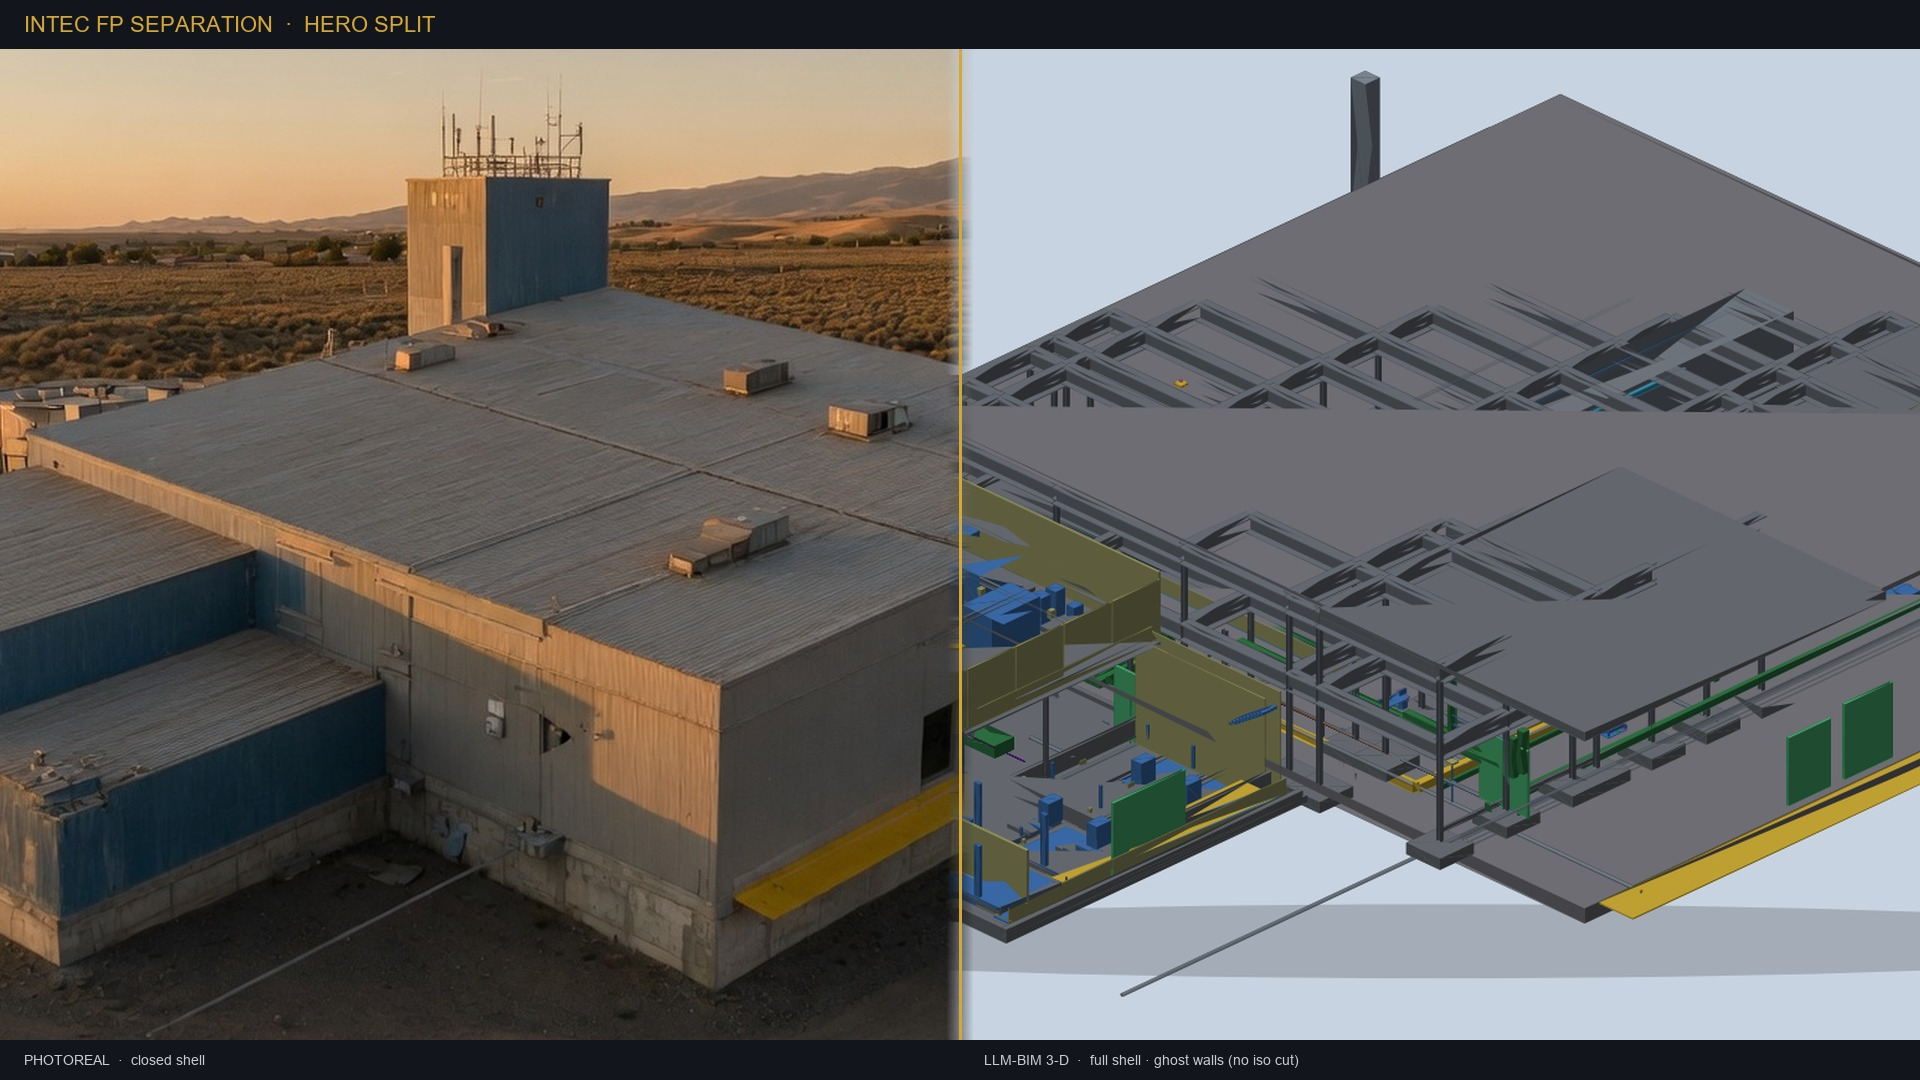
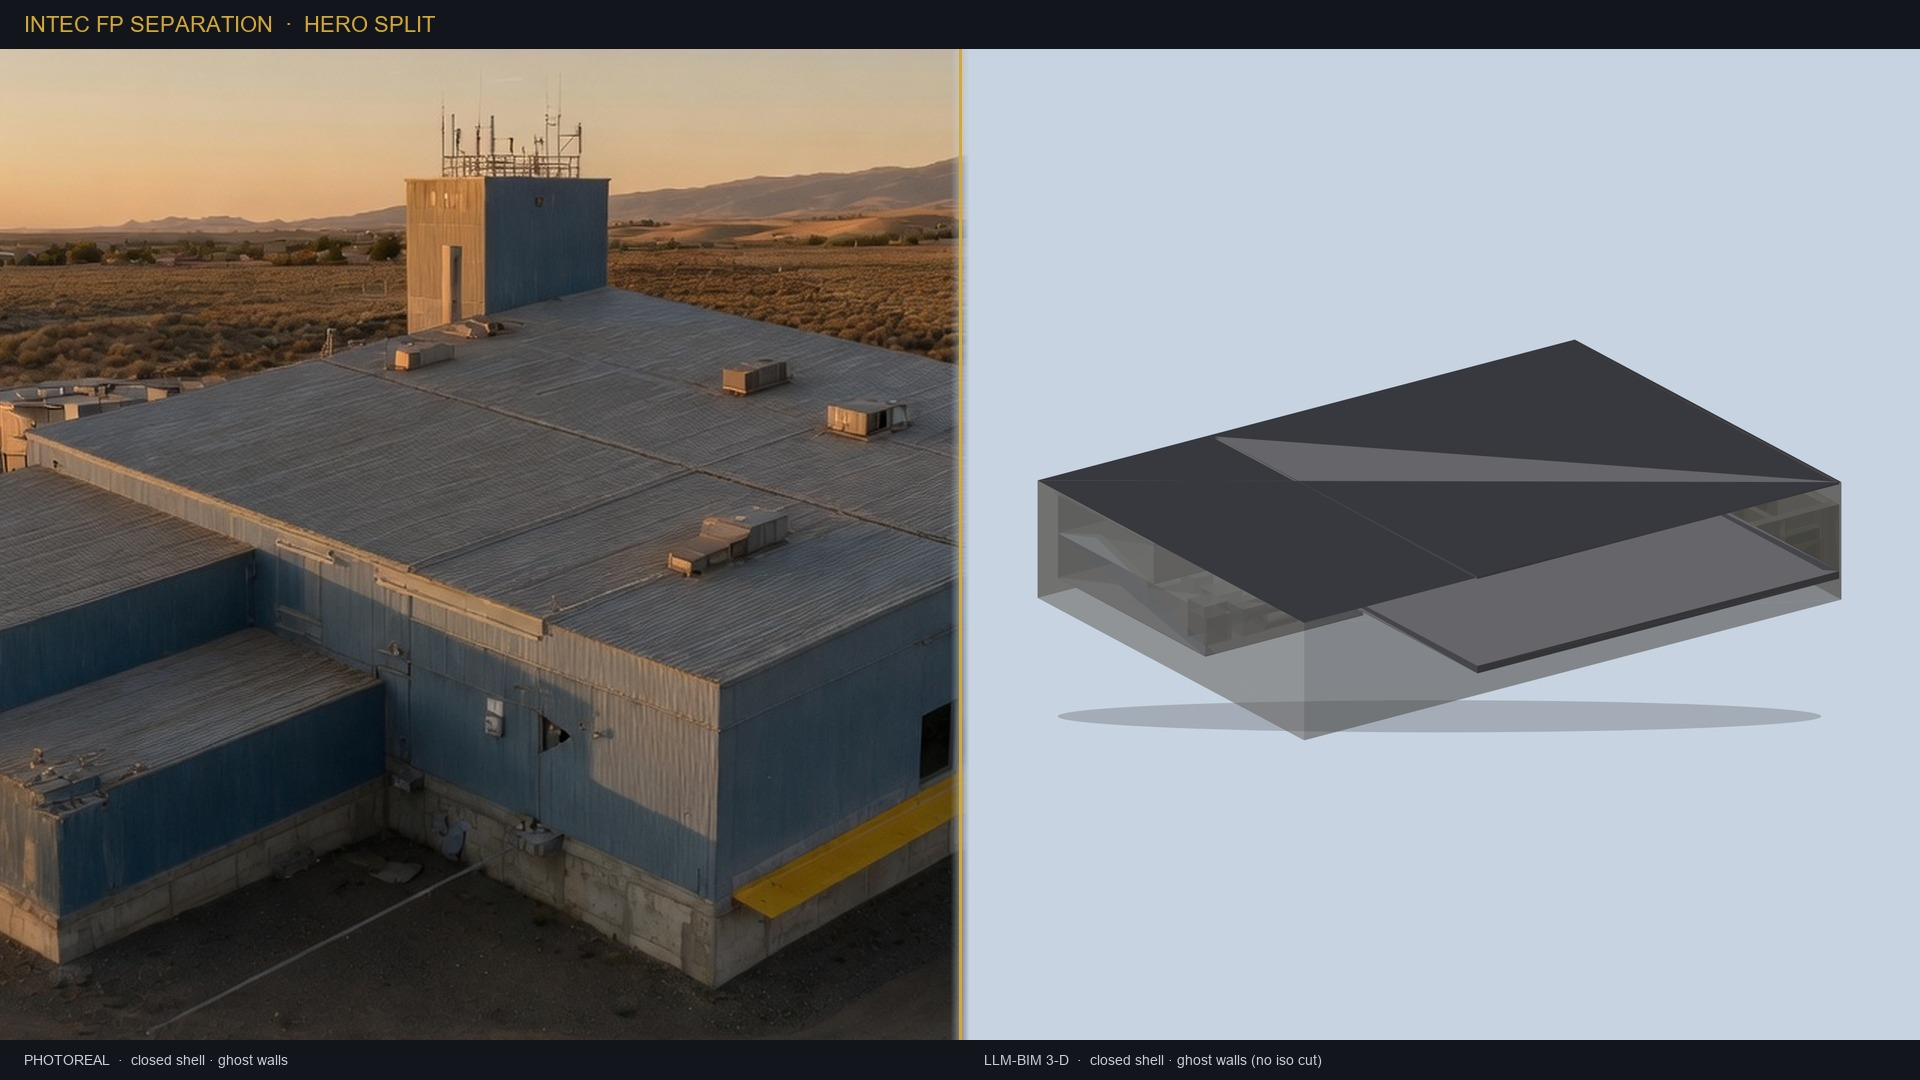
render_hero: closed envelope product stills (no exposed steel / no iso-in)
Primary mesh product views inject solid roof deck + perimeter walls, drop
interior MEP, light wall ghost only, lower exterior elev. Hero library
stills restaged to match closed shell.

diff --git a/packages/geometry/llmbim_geometry/render_hero.py b/packages/geometry/llmbim_geometry/render_hero.py
@@ -79,23 +79,30 @@ def load_gltf_triangles(gltf_path: str | Path) -> tuple[list[_Tri], str]:
     return _gltf_triangles(gltf), name
 
 
-# Vertical enclosure ghosted so structure/MEP reads through (roof stays solid
-# so primary stills are full-shell, not cutaway iso).
-# equip_shell = facility massing envelopes (often mis-tagged as cyan equipment);
-# ghost them as walls so they don't read as blue iso cut planes.
+# Vertical enclosure lightly ghosted (not a cutaway into the hall).
+# equip_shell stays SOLID — it is exterior massing; ghosting it opens the
+# annex like an iso section.
 _GHOST_WALL_KEYS = frozenset({
     "wall", "wall_structure", "wall_insulation", "wall_finish", "wall_membrane",
     "door", "window", "glass", "curtain", "cladding",
+    # massing shells: light ghost + neutral color (not cyan cut planes)
     "equip_shell",
 })
+_GHOST_NEUTRAL_KEYS = frozenset({"equip_shell"})
 # Optional light shell ghost (off by default when ghost_walls=True — roof solid)
 _GHOST_SHELL_KEYS = frozenset({
     "slab", "roof", "concrete", "floor",
 })
-# When ghosting, recolor these keys to neutral wall so cyan massing doesn't
-# look like section-cut hatching.
-_GHOST_NEUTRAL_KEYS = frozenset({"equip_shell"})
-_GHOST_NEUTRAL_RGB = (0.72, 0.74, 0.76)
+_GHOST_NEUTRAL_RGB = (0.70, 0.72, 0.74)
+
+# Interior MEP / process volume dropped on exterior product stills so the
+# camera does not angle into the building (hero/3-D match).
+_INTERIOR_DROP_KEYS = frozenset({
+    "pipe_process", "pipe_copper", "pipe_fire", "pipe_pvc", "conduit",
+    "cable_tray", "duct", "equipment", "equip_port", "equip_sensor",
+    "equip_pedestal", "equip_yoke", "equip_chiller", "equip_gas",
+    "equip_cartridge", "equip_vacuum", "equip_controls",
+})
 
 
 def render_mesh_png(
@@ -239,6 +246,105 @@ def _filter_open_process(tris: list[_Tri]) -> list[_Tri]:
     return keep or tris
 
 
+def _shell_bounds(tris: list[_Tri]) -> tuple[float, float, float, float, float, float]:
+    """Return (x0,x1,y0,y1,z0,z1) of enclosure + frame footprint."""
+    shell_keys = {
+        "wall", "wall_structure", "wall_insulation", "wall_finish",
+        "slab", "roof", "column", "beam", "door", "window", "equip_shell",
+    }
+    pts: list[_Vec3] = []
+    for v0, v1, v2, key in tris:
+        k = (key or "").lower()
+        if k in shell_keys or k.startswith("wall"):
+            pts.extend((v0, v1, v2))
+    if len(pts) < 3:
+        pts = [v for t in tris for v in t[:3]]
+    xs = [p[0] for p in pts]
+    ys = [p[1] for p in pts]
+    zs = [p[2] for p in pts]
+    return min(xs), max(xs), min(ys), max(ys), min(zs), max(zs)
+
+
+def _quad(a: _Vec3, b: _Vec3, c: _Vec3, d: _Vec3, key: str) -> list[_Tri]:
+    return [(a, b, c, key), (a, c, d, key)]
+
+
+def _inject_closed_envelope(tris: list[_Tri]) -> list[_Tri]:
+    """Solid roof deck + perimeter walls so product stills are closed exterior.
+
+    Pack glTF often lacks continuous roof/facade faces — beams read as open
+    steel and isos look into the hall. Cap + four wall planes seal the shell;
+    walls use material ``wall`` (lightly ghosted); roof stays solid.
+    """
+    if not tris:
+        return tris
+    x0, x1, y0, y1, z0, z1 = _shell_bounds(tris)
+    beam_ys = [v[1] for t in tris if t[3] == "beam" for v in t[:3]]
+    wall_ys = [v[1] for t in tris if (t[3] or "").startswith("wall") for v in t[:3]]
+    y_roof = y1
+    if beam_ys:
+        y_roof = max(max(beam_ys) + 0.12, y_roof * 0.99)
+    if wall_ys:
+        y_roof = max(y_roof, max(wall_ys))
+    y_slab = min(0.0, y0)
+    pad = 0.20
+    x0, x1 = x0 - pad, x1 + pad
+    z0, z1 = z0 - pad, z1 + pad
+    # Roof (solid)
+    ra, rb = (x0, y_roof, z0), (x1, y_roof, z0)
+    rc, rd = (x1, y_roof, z1), (x0, y_roof, z1)
+    shell: list[_Tri] = _quad(ra, rb, rc, rd, "roof")
+    # Four perimeter walls floor→roof (ghost as wall)
+    # S (min z), N (max z), W (min x), E (max x)
+    shell += _quad(
+        (x0, y_slab, z0), (x1, y_slab, z0), (x1, y_roof, z0), (x0, y_roof, z0), "wall"
+    )
+    shell += _quad(
+        (x1, y_slab, z1), (x0, y_slab, z1), (x0, y_roof, z1), (x1, y_roof, z1), "wall"
+    )
+    shell += _quad(
+        (x0, y_slab, z1), (x0, y_slab, z0), (x0, y_roof, z0), (x0, y_roof, z1), "wall"
+    )
+    shell += _quad(
+        (x1, y_slab, z0), (x1, y_slab, z1), (x1, y_roof, z1), (x1, y_roof, z0), "wall"
+    )
+    # Drop high beam/column faces that read as roof-exposed steel
+    y_cut = y_roof - 0.05
+    keep: list[_Tri] = []
+    for v0, v1, v2, key in tris:
+        k = (key or "").lower()
+        if k in ("beam", "column"):
+            cy = (v0[1] + v1[1] + v2[1]) / 3.0
+            if cy >= y_cut - 1.5:
+                if k == "column" and min(v0[1], v1[1], v2[1]) < y_cut - 2.5 and cy < y_cut - 0.5:
+                    keep.append((v0, v1, v2, key))
+                continue
+        keep.append((v0, v1, v2, key))
+    return keep + shell
+
+
+def _exterior_product_tris(tris: list[_Tri]) -> list[_Tri]:
+    """Closed exterior product mesh: roof + walls, no deep look into the hall.
+
+    Drops interior MEP/process solids and most interior frame so primary isos
+    are exterior 3/4s with ghosted walls — not section cuts into process.
+    """
+    closed = _inject_closed_envelope(tris)
+    out: list[_Tri] = []
+    for v0, v1, v2, key in closed:
+        k = (key or "").lower()
+        if k in _INTERIOR_DROP_KEYS or k.startswith("pipe_") or k.startswith("equip_"):
+            # keep equip_shell as solid exterior massing only
+            if k == "equip_shell":
+                out.append((v0, v1, v2, key))
+            continue
+        # hide interior frame under the closed shell (columns/beams inside)
+        if k in ("beam", "column"):
+            continue
+        out.append((v0, v1, v2, key))
+    return out
+
+
 def export_mesh_product_views(
     pack_dir: str | Path,
     *,
@@ -248,12 +354,13 @@ def export_mesh_product_views(
 ) -> list[Path]:
     """Write multi-view PNGs from pack ``model.gltf`` — matches viewer 3D.
 
-    Primary product stills use **full shell + ghost walls** (no process-open
-    cutaway; roof solid, walls translucent). Process-open is MEP-only.
+    Primary product stills: **closed roof deck + ghost walls** (no process-open
+    cutaway, no exposed roof steel, no iso angling into the hall). Process-open
+    remains MEP-only.
 
     Files:
-      R1_iso.png / model_match_iso_full.png  full iso, ghost walls (hero 3-D side)
-      model_match_iso.png                    same (no process cut)
+      R1_iso.png / model_match_iso_full.png  closed shell + ghost walls (hero 3-D)
+      model_match_iso.png                    same
       R1_iso_process.png                     process-open (MEP only)
       R2_plan / R3_elev / R4_elev            elev/plan with ghost walls
     """
@@ -265,16 +372,19 @@ def export_mesh_product_views(
     if not tris:
         return []
     open_tris = _filter_open_process(tris)
+    # Exterior product: closed roof, no interior MEP, light wall ghost only
+    exterior_tris = _exterior_product_tris(tris)
     out = pack / out_subdir
     out.mkdir(parents=True, exist_ok=True)
     prefix = title_prefix or gname
     # (fname, az, el, title, use_open, ghost_walls)
+    # Lower elev (~16°) = exterior 3/4, not bird's-eye / section into hall
     views: list[tuple[str, float, float, str, bool, bool]] = [
         (
             "R1_iso.png",
-            225.0,
-            28.0,
-            f"{prefix} — isometric · full shell · ghost walls",
+            220.0,
+            16.0,
+            f"{prefix} — exterior · closed shell · ghost walls",
             False,
             True,
         ),
@@ -286,24 +396,24 @@ def export_mesh_product_views(
             True,
             False,
         ),
-        ("R2_plan.png", 0.0, 89.0, f"{prefix} — plan · ghost walls", False, True),
+        ("R2_plan.png", 0.0, 89.0, f"{prefix} — plan · closed shell", False, True),
         ("R3_elev.png", 180.0, 0.0, f"{prefix} — elev S · ghost walls", False, True),
         ("R3_elev_S.png", 180.0, 0.0, f"{prefix} — elev S · ghost walls", False, True),
         ("R4_elev_E.png", 90.0, 0.0, f"{prefix} — elev E · ghost walls", False, True),
         (
             "model_match_iso.png",
-            225.0,
-            28.0,
-            f"{prefix} — model-match iso · full shell · ghost walls",
+            220.0,
+            16.0,
+            f"{prefix} — model-match · closed shell · ghost walls",
             False,
             True,
         ),
-        ("model_match_plan.png", 0.0, 89.0, f"{prefix} — model-match plan · ghost walls", False, True),
+        ("model_match_plan.png", 0.0, 89.0, f"{prefix} — model-match plan · closed shell", False, True),
         (
             "model_match_iso_full.png",
-            225.0,
-            28.0,
-            f"{prefix} — model-match iso · full shell · ghost walls",
+            220.0,
+            16.0,
+            f"{prefix} — model-match · closed shell · ghost walls",
             False,
             True,
         ),
@@ -311,25 +421,34 @@ def export_mesh_product_views(
     paths: list[Path] = []
     for fname, az, el, title, use_open, ghost in views:
         p = out / fname
+        mesh = open_tris if use_open else exterior_tris
         render_mesh_png(
-            open_tris if use_open else tris,
+            mesh,
             p,
             title=title,
             azimuth_deg=az,
             elevation_deg=el,
             size=(1600, 1000) if "iso" in fname else (1600, 900),
             ghost_walls=ghost,
-            wall_alpha=0.20,
-            ghost_roof=False,  # closed shell — no translucent roof cut look
+            # Light ghost on true walls only — shell reads closed
+            wall_alpha=0.55,
+            ghost_roof=False,
         )
         paths.append(p)
     man = {
-        "rule": "mesh match — exact pack glTF; primary stills = full shell + ghost walls (no iso cut; roof solid)",
+        "rule": (
+            "mesh match — primary stills = closed roof + light ghost walls + "
+            "no interior MEP (exterior 3/4, not iso into hall)"
+        ),
         "source": gltf_name,
         "triangle_count": len(tris),
+        "triangle_count_exterior_product": len(exterior_tris),
         "triangle_count_process_open": len(open_tris),
         "ghost_walls_primary": True,
         "ghost_roof_primary": False,
+        "closed_roof_deck": True,
+        "hide_interior_mep_primary": True,
+        "iso_elevation_deg_primary": 16.0,
         "files": [p.name for p in paths],
         "honesty": "presentation stills from live model mesh — not PE stamp",
     }
